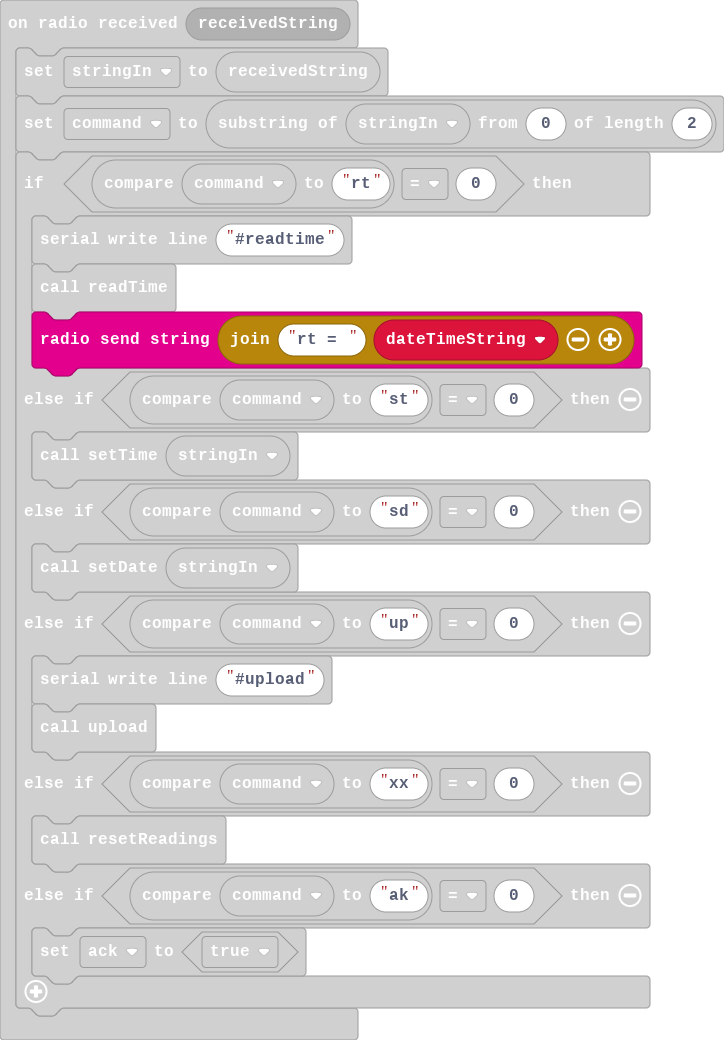
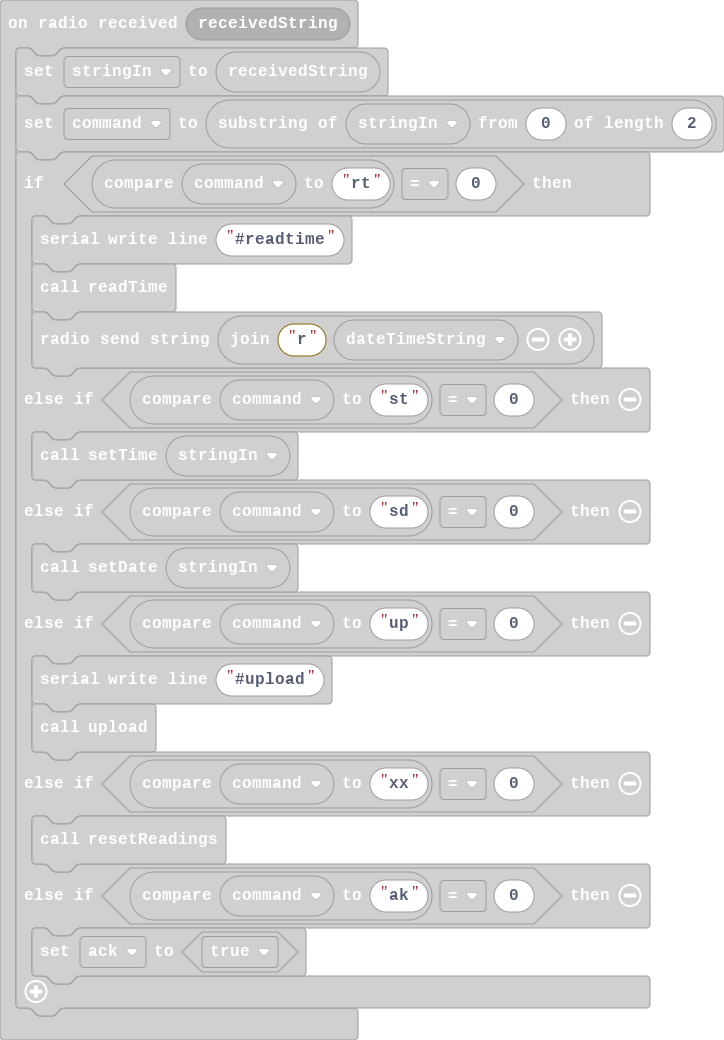
Update main.blocks, main.ts

Changed region(s): [[0.0304, 0.2769, 0.9116, 0.3692]]

diff --git a/main.ts b/main.ts
@@ -99,7 +99,7 @@ radio.onReceivedString(function (receivedString) {
     if (command.compare("rt") == 0) {
         serial.writeLine("#readtime")
         readTime()
-        radio.sendString("rt = " + dateTimeString)
+        radio.sendString("r" + dateTimeString)
     } else if (command.compare("st") == 0) {
         setTime(stringIn)
     } else if (command.compare("sd") == 0) {
